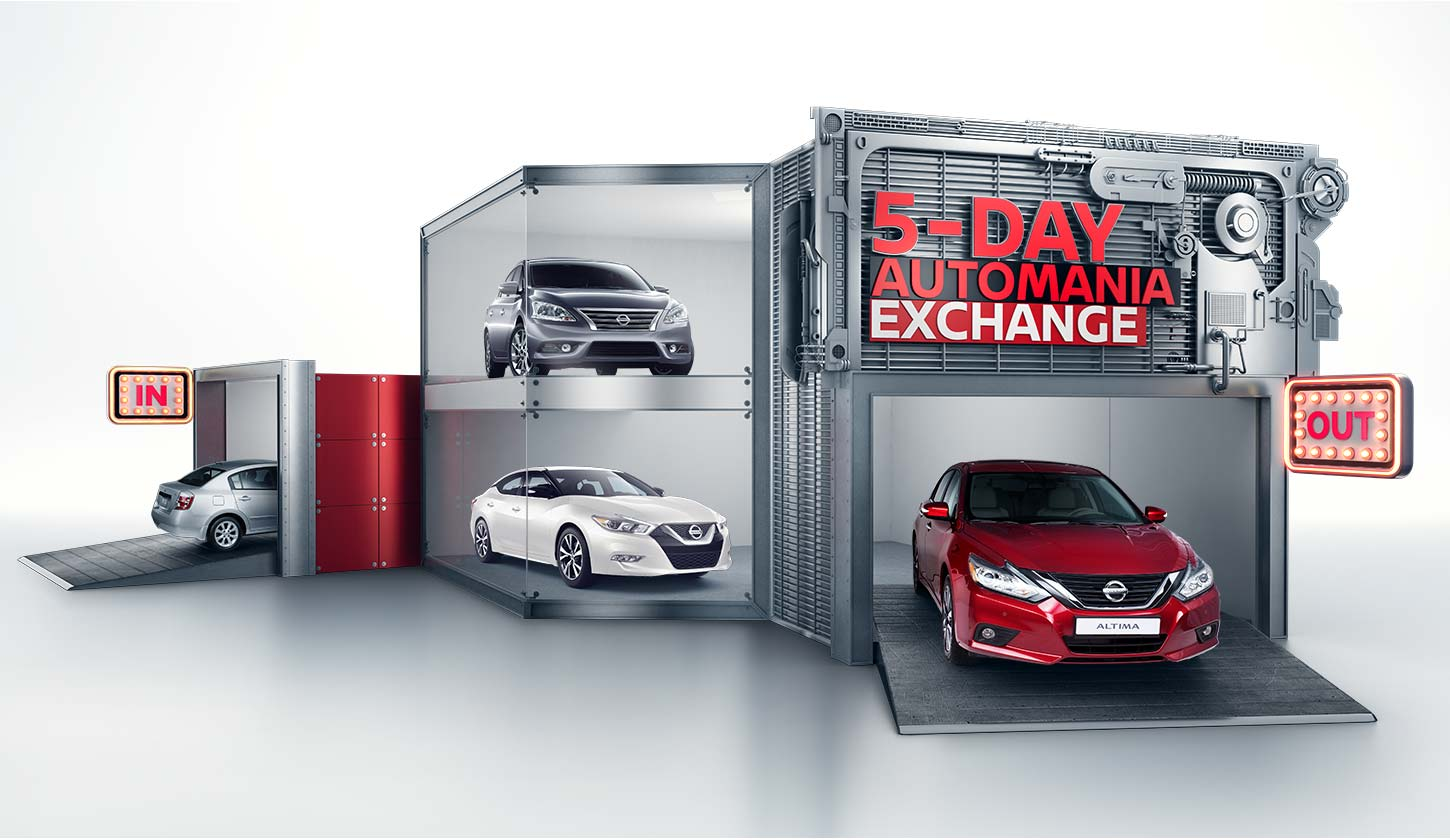
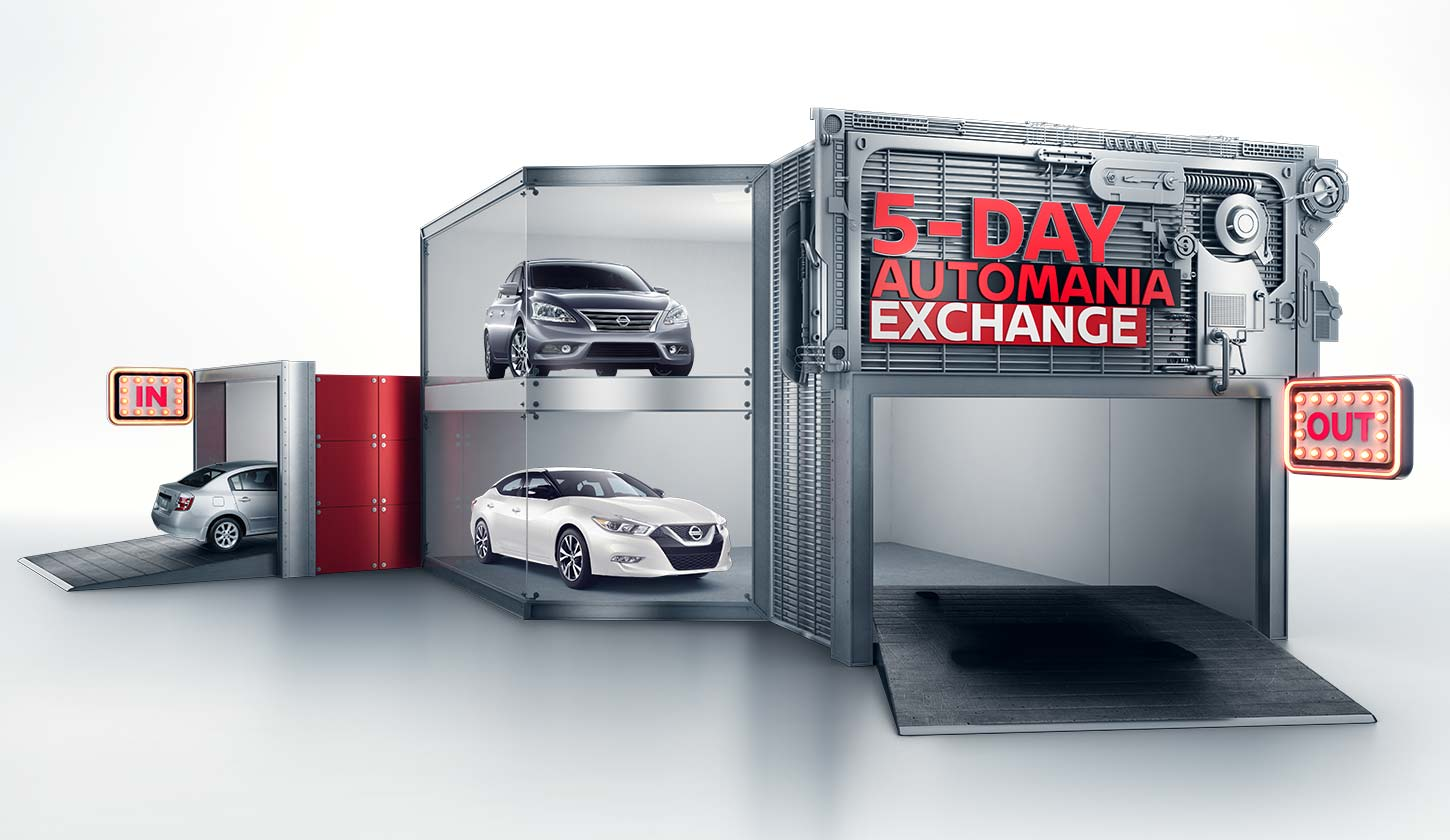
update AAC/Nissan/NissanAutomaniaExchange/300x250_EN

diff --git a/AAC/Nissan/NissanAutomaniaExchange/300x250_EN/index.html b/AAC/Nissan/NissanAutomaniaExchange/300x250_EN/index.html
@@ -24,8 +24,9 @@
 
 			tl.to(bg, 1.5, {scale: 0.7, x: -485, y:-300, ease:Power1.easeInOut}, "+=1")
 				.to(bg, 1.5, {x: -814, y: -390, ease:Power1.easeInOut}, "+=1")
-				// .to(bg, 2, {scale: 0.45, x: -742, y: -310, ease:Power2.easeInOut}, "+=1")
+				.to(redCar, 0.5, {scale:1, ease:Power1.easeInOut})
 				.to(bg, 1.5, {scale: 0.3, x: -635, y: -295, ease:Power1.easeInOut}, "+=1")
+
 				.to(bg, 1.5, {scale: 0.9, x: -841, y: -163, ease:Power1.easeInOut}, "+=1")
 				.to(bg, 0.5, {autoAlpha:0, ease:Power0.easeInOut}, "+=2");
 
@@ -66,7 +67,9 @@
 <body>
   <div id="banner">
     <a class="click-tag" onclick="window.open(window.clickTag, '_blank');" href="javascript:">
-      <div id="bg" class="layer"></div>
+      <div id="bg" class="layer">
+      	<div id="redCar" class="layer"></div>
+      </div>
       <div id="f1_text" class="layer"></div>
       <div id="f2_text" class="layer"></div>
       <div id="f3_text" class="layer"></div>

diff --git a/AAC/Nissan/NissanAutomaniaExchange/300x250_EN/styles.css b/AAC/Nissan/NissanAutomaniaExchange/300x250_EN/styles.css
@@ -40,6 +40,15 @@ a {
   transform: matrix(1, 0, 0, 1, -16, -349);
   opacity: 1;
 }
+#redCar {
+  background: url("redCar.png") center no-repeat;
+  width: 1450px;
+  height: 840px;
+  opacity: 1;
+  -ms-transform: matrix(0.9, 0, 0, 0.9, 0, 8); 
+  -webkit-transform: matrix(0.9, 0, 0, 0.9, 0, 8); 
+  transform: matrix(0.9, 0, 0, 0.9, 0, 8);
+}
 #f1_text {
   background: url("f1_text.png") center no-repeat;
 }
